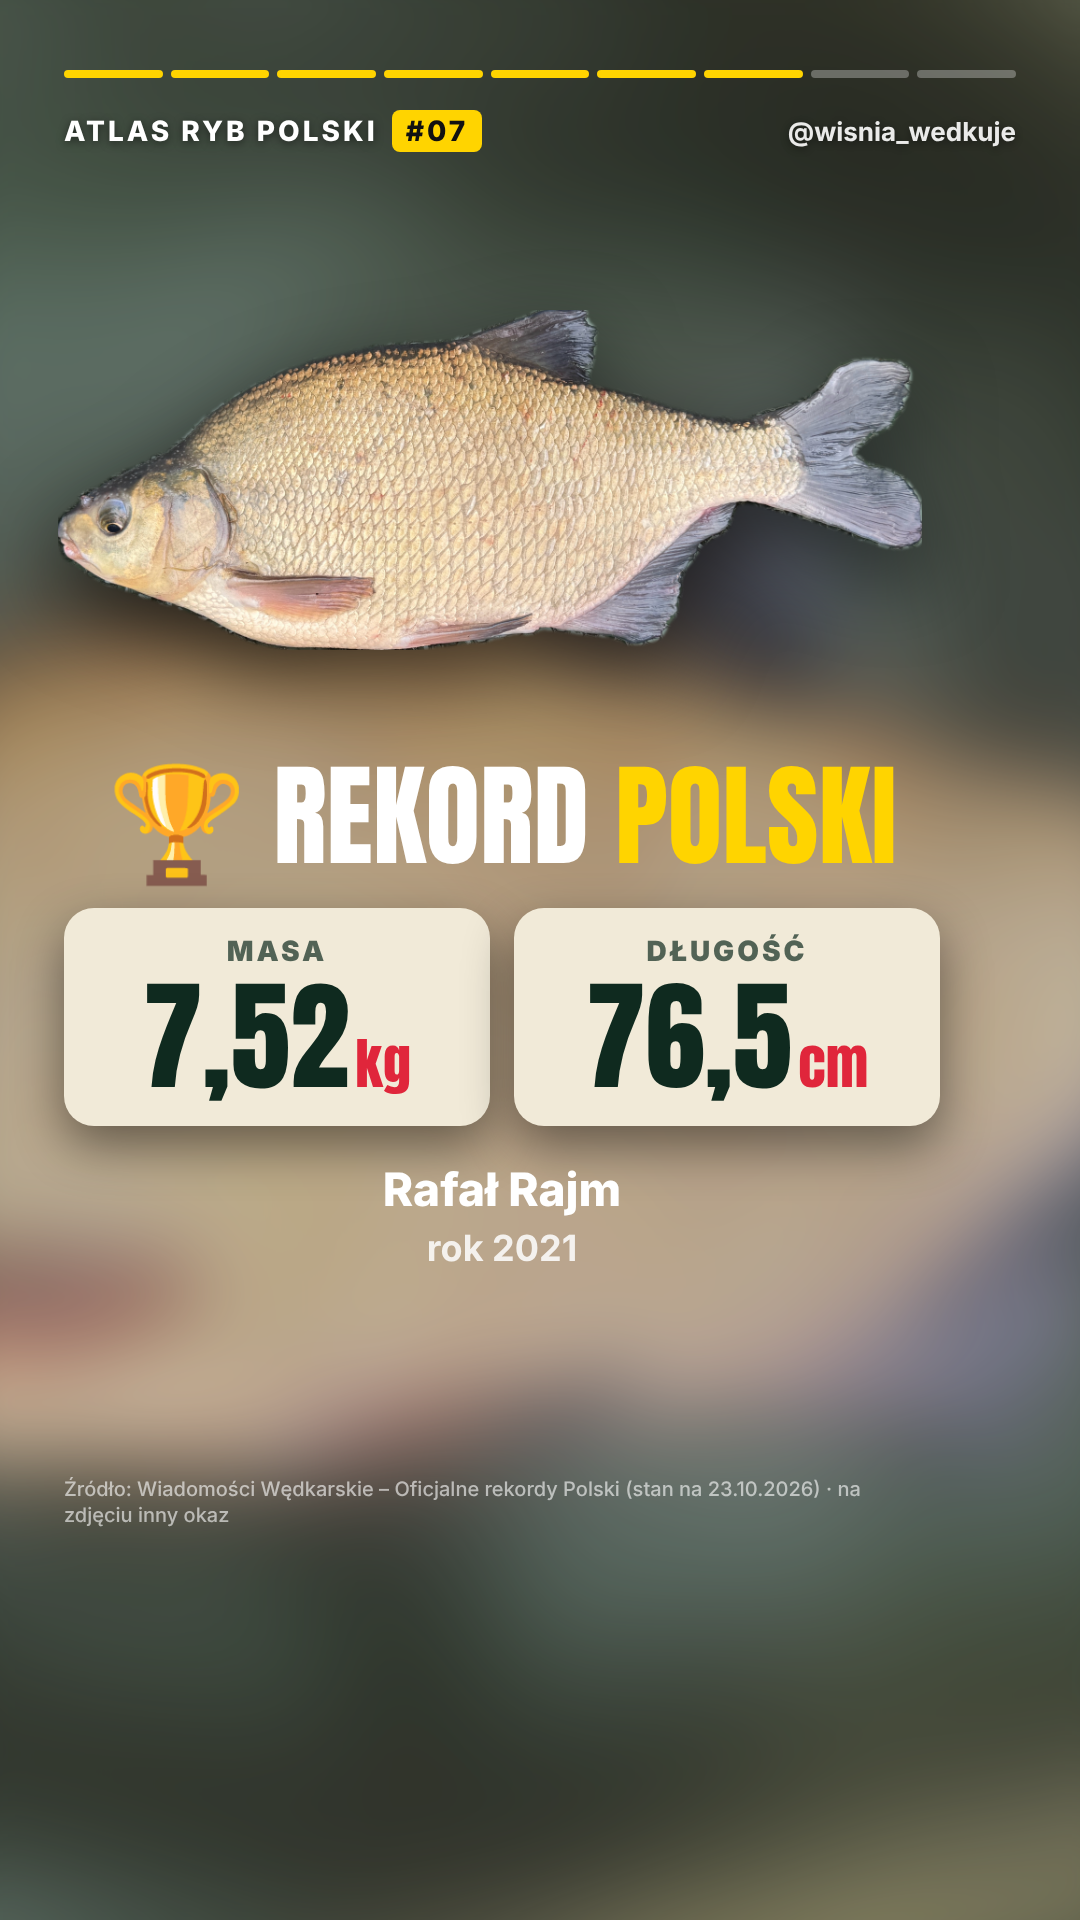
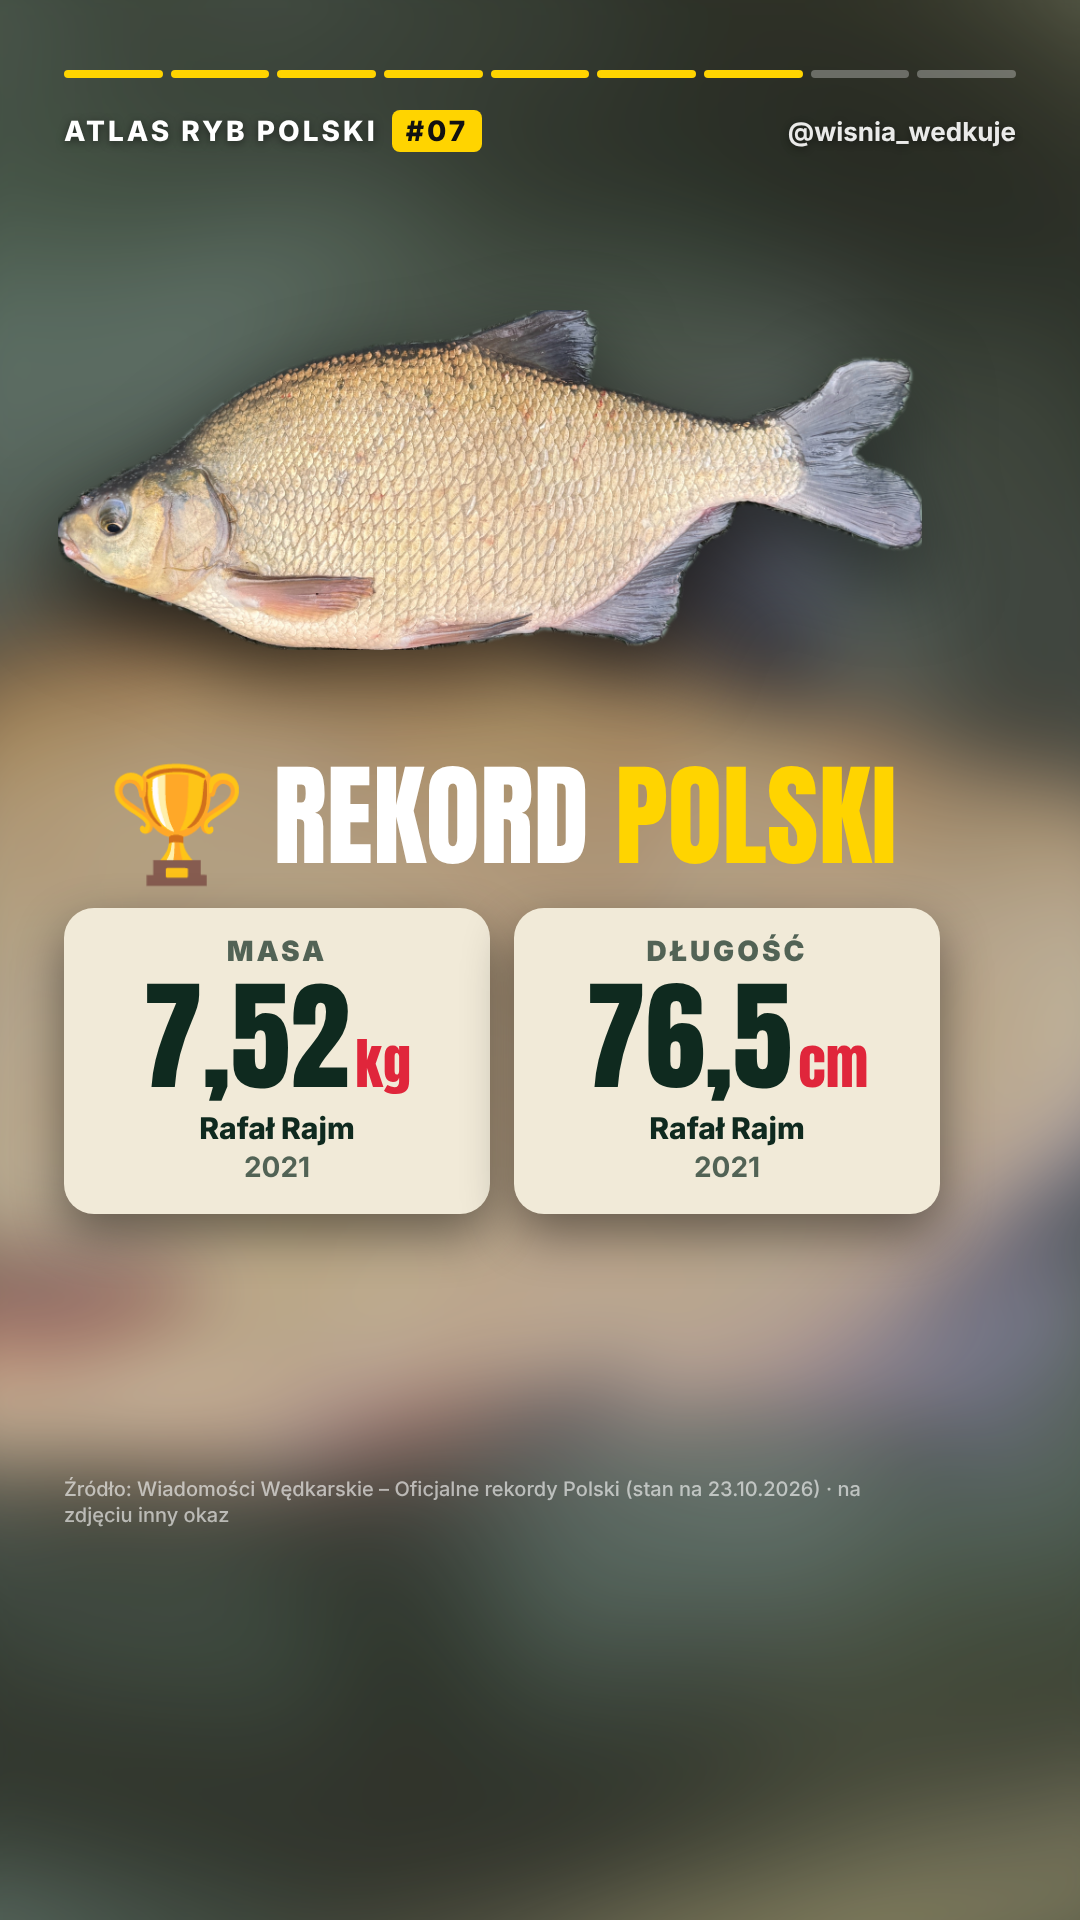
Scena rekordu: rekordzista i rok pod każdą wartością w osobnych liniach
Claude-Session: https://claude.ai/code/session_01P9R5v2yPFHwMJVw1yZXoPw

Changed region(s): [[0.0306, 0.5625, 0.8861, 0.6562]]

diff --git a/atlas/sceny.js b/atlas/sceny.js
@@ -86,9 +86,9 @@ window.zbudujSceny = function () {
     // 7. rekord Polski
     () => `${ryba('rekord', { ...SZER, y: 240, h: G.rekord_dopisek ? 360 : 480 }, { wycinek: true, margines: 0.02 })}${pasek(6)}
       <div class="rekord${G.rekord_dopisek ? ' z-dopiskiem' : ''}"><h2 data-a="pop" data-d="0.25" data-dzwiek="dzwonek">🏆 Rekord <span>Polski</span></h2>
-        <div class="rek-box"><div class="rek" data-a="dol" data-przy="${RP.masa}"><div class="k">masa</div><div class="v"><span data-licz>${kg(R.masa.kg)}</span><small>kg</small></div></div>
-          <div class="rek" data-a="dol" data-przy="${RP.dlugosc}"><div class="k">długość</div><div class="v"><span data-licz>${cm(R.dlugosc.cm)}</span><small>cm</small></div></div></div>
-        <div class="rek-kto" data-a="dol" data-przy="${RP.kto}">${R.masa.rekordzista}<span>rok ${R.masa.rok}${opisRek}${R.dlugosc.rekordzista !== R.masa.rekordzista ? ` · długość: ${R.dlugosc.rekordzista} (${R.dlugosc.rok})` : ''}${G.rekord_dopisek ? `<b>${G.rekord_dopisek}</b>` : ''}</span></div></div>
+        <div class="rek-box"><div class="rek" data-a="dol" data-przy="${RP.masa}"><div class="k">masa</div><div class="v"><span data-licz>${kg(R.masa.kg)}</span><small>kg</small></div><div class="kto">${R.masa.rekordzista}</div><div class="rok">${R.masa.rok}</div></div>
+          <div class="rek" data-a="dol" data-przy="${RP.dlugosc}"><div class="k">długość</div><div class="v"><span data-licz>${cm(R.dlugosc.cm)}</span><small>cm</small></div><div class="kto">${R.dlugosc.rekordzista}</div><div class="rok">${R.dlugosc.rok}</div></div></div>
+        ${opisRek || G.rekord_dopisek ? `<div class="rek-kto" data-a="dol" data-przy="${RP.kto}"><span>${opisRek.replace(/^ – /, '')}${G.rekord_dopisek ? `<b>${G.rekord_dopisek}</b>` : ''}</span></div>` : ''}</div>
       <div class="zrodlo">${zr(['ww'])} · na zdjęciu inny okaz</div>`,
     // 8. przepisy
     () => `${tlo('tlo', 'filter:blur(30px) brightness(.4)')}${pasek(7)}

diff --git a/atlas/styl.css b/atlas/styl.css
@@ -75,6 +75,8 @@
   .rek .k { font: 900 28px Inter; letter-spacing: 3px; text-transform: uppercase; opacity: .7; }
   .rek .v { font: 400 120px/1 Anton; margin-top: 8px; }
   .rek .v small { font-size: 56px; color: var(--czerw); margin-left: 6px; }
+  .rek .kto { margin-top: 14px; font: 800 30px/1.2 Inter; }
+  .rek .rok { margin-top: 4px; font: 700 28px Inter; opacity: .7; }
   .rek-kto { margin-top: 34px; font: 800 46px/1.3 Inter; }
   .rek-kto span { display: block; font: 700 36px Inter; opacity: .85; margin-top: 6px; }
   .rek-kto span b { display: block; margin-top: 10px; color: var(--zolty); opacity: 1; }

diff --git a/CLAUDE.md b/CLAUDE.md
@@ -17,6 +17,7 @@
   3. dopiero po „OK” użytkownika: lektor (1 wariant) → transkrypcja → oś czasu → `render_wideo.mjs`.
 - **Elementy na ekranie muszą pasować do słów lektora**: tekst każdego kafelka/punktu ma odpowiadać frazie, przy której
   wchodzi (`przy` = pierwsze słowo tej frazy). Nie łącz w jednym kafelku rzeczy mówionych w różnych momentach.
+- **Scena rekordu**: pod masą i pod długością osobno rekordzista i rok, każde w nowej linii (szablon robi to sam).
 - Format i proces: patrz `README.md` (Atlas Ryb Polski, 9 scen, render `atlas/render_wideo.mjs`).
 - Każdy fakt musi mieć źródło (rozporządzenie Dz.U. 2023 poz. 1373, oficjalne rekordy Wiadomości Wędkarskich,
   FishBase, Wikipedia). Wątpliwe fakty → sekcja „Celowo pominięte” w `atlas/scenariusze/<gatunek>.md`.
